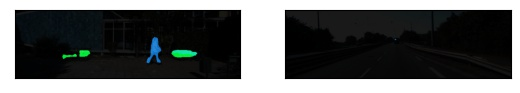
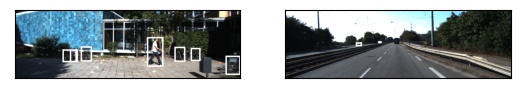
update main

diff --git a/main.py b/main.py
@@ -1,7 +1,7 @@
 from torchvision import models, transforms
 from torchvision.io.image import read_image
 from torchvision.models.segmentation import fcn_resnet50, fcn_resnet101
-from torchvision.models.detection import fasterrcnn_resnet50_fpn
+from torchvision.models.detection import fasterrcnn_resnet50_fpn, maskrcnn_resnet50_fpn
 import torch
 from PIL import Image
 from torchvision.transforms.functional import normalize
@@ -9,7 +9,7 @@ import numpy as np
 import matplotlib.pyplot as plt
 import torchvision.transforms.functional as F
 from torchvision.transforms.functional import convert_image_dtype
-from torchvision.utils import draw_segmentation_masks
+from torchvision.utils import draw_segmentation_masks, draw_bounding_boxes
 
 plt.rcParams["savefig.bbox"] = 'tight'
 def show(imgs):
@@ -162,11 +162,73 @@ def test_fasterrcnn():
         model.cuda()
     model = model.eval()
     
-    output = model(batch)
+    outputs = model(batch)
+    print(outputs)
+    #绘制出来可能性大于0.8的obejct
+    score_threshold = .8
+    img_with_boxes = [
+        draw_bounding_boxes(img_int.cpu(), boxes=output['boxes'][output['scores'] > score_threshold].cpu(), width=4)
+        for img_int, output in zip(batch_int, outputs)
+    ]
+    show(img_with_boxes)
 
 #instance segmentation
 def test_mask_rcnn():
-    pass
+    #test picture path
+    img_path = "test img/"
+
+    img_list = []
+    transform = transforms.Compose([
+        transforms.Resize((37*5,122*5))
+    ])
+    device = 'cuda' if torch.cuda.is_available() else 'cpu'
+    for i in range(2):
+        img_name = str(i)
+        while len(img_name) < 6:
+            img_name = "0" + img_name
+        #img_list.append(transform(read_image(img_path + img_name + ".png").to(device)))
+        img_list.append(transform(read_image(img_path + img_name + ".png").to(device)))
+
+    batch_int = torch.stack(img_list)
+    batch = convert_image_dtype(batch_int, dtype=torch.float)
+
+    model = maskrcnn_resnet50_fpn(pretrained=True, progress=False)
+    if torch.cuda.is_available():
+        model.cuda()
+    model = model.eval()
+
+    output = model(batch)
+    #print(output)
+    output = output[0]
+
+    inst_classes = [
+    '__background__', 'person', 'bicycle', 'car', 'motorcycle', 'airplane', 'bus',
+    'train', 'truck', 'boat', 'traffic light', 'fire hydrant', 'N/A', 'stop sign',
+    'parking meter', 'bench', 'bird', 'cat', 'dog', 'horse', 'sheep', 'cow',
+    'elephant', 'bear', 'zebra', 'giraffe', 'N/A', 'backpack', 'umbrella', 'N/A', 'N/A',
+    'handbag', 'tie', 'suitcase', 'frisbee', 'skis', 'snowboard', 'sports ball',
+    'kite', 'baseball bat', 'baseball glove', 'skateboard', 'surfboard', 'tennis racket',
+    'bottle', 'N/A', 'wine glass', 'cup', 'fork', 'knife', 'spoon', 'bowl',
+    'banana', 'apple', 'sandwich', 'orange', 'broccoli', 'carrot', 'hot dog', 'pizza',
+    'donut', 'cake', 'chair', 'couch', 'potted plant', 'bed', 'N/A', 'dining table',
+    'N/A', 'N/A', 'toilet', 'N/A', 'tv', 'laptop', 'mouse', 'remote', 'keyboard', 'cell phone',
+    'microwave', 'oven', 'toaster', 'sink', 'refrigerator', 'N/A', 'book',
+    'clock', 'vase', 'scissors', 'teddy bear', 'hair drier', 'toothbrush'
+    ]
+
+    proba_threshold = 0.5
+    score_threshold = .75
+
+    boolean_masks = [
+        out['masks'][out['scores'] > score_threshold] > proba_threshold
+        for out in output
+    ]
+
+    img_with_masks = [
+        draw_segmentation_masks(img, mask.squeeze(1))
+        for img, mask in zip(batch_int, boolean_masks)
+    ]
+    show(img_with_masks)
 
 if __name__ == "__main__":
-    test_fcn()
+    test_mask_rcnn()
